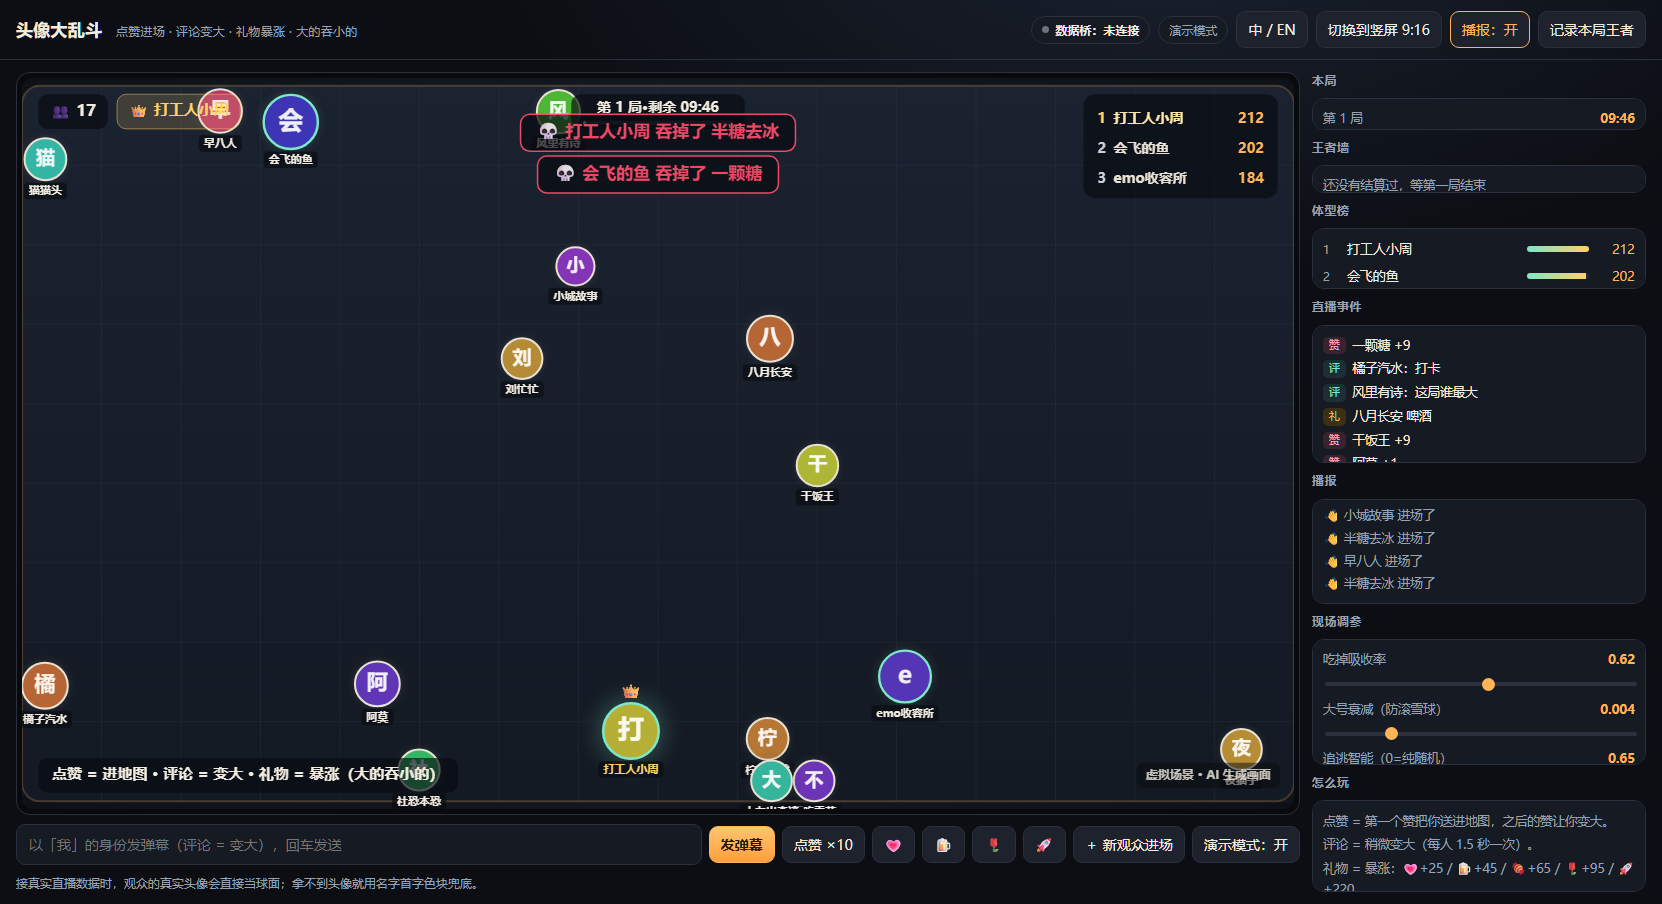
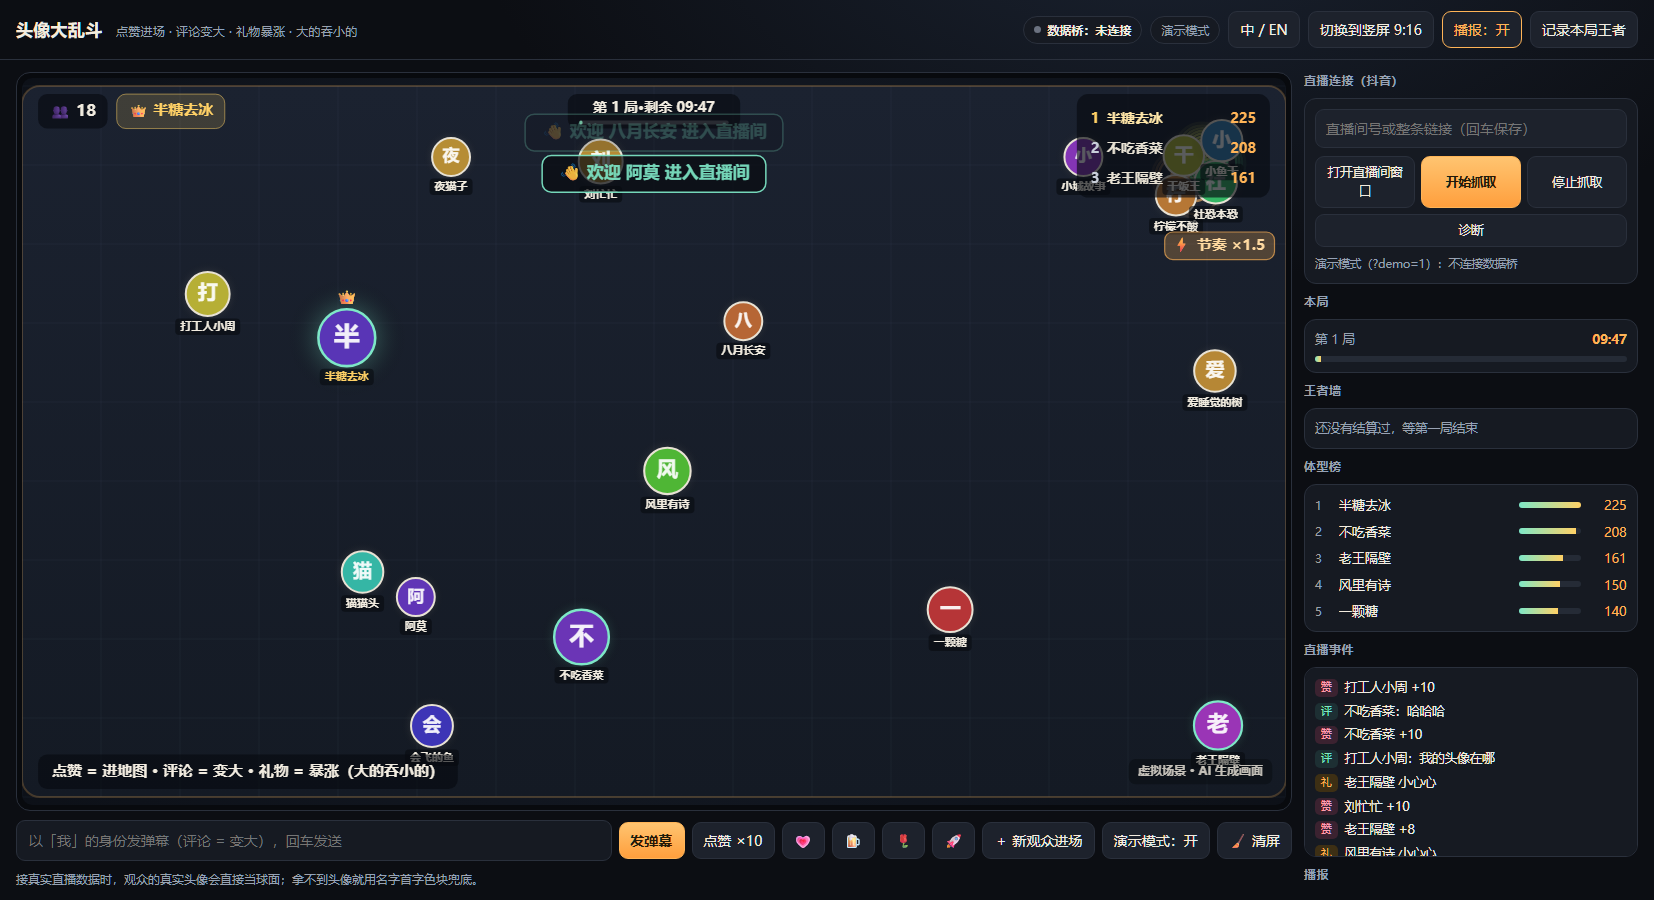
feat: 一键清屏 + 大号衰减一路压到 200（衰减下限可调）

diff --git a/index.html b/index.html
@@ -107,6 +107,7 @@
       <button data-gift="火箭">🚀</button>
       <button id="btnJoin" data-i18n="dock.join">＋ 新观众进场</button>
       <button id="btnDemo" data-i18n="btn.demoOn">演示模式：开</button>
+      <button id="btnClear" data-i18n="dock.clear">🧹 清屏</button>
     </div>
     <div class="hint" data-i18n="panel.hint"></div>
   </section>
@@ -441,6 +442,12 @@ $('btnJoin').addEventListener('click', () => {
   pushEvent({ type: 'join', name });
   render.toast(tr('toast.welcome', { name }), 'join', 3.5);
   if (speech.enabled) speech.welcome(name);
+});
+$('btnClear').addEventListener('click', () => {
+  const count = arena.clear();
+  render.toast(tr('toast.cleared', { n: count }), 'king', 3.5);
+  renderRank(arena.snapshot());
+  renderLog(arena.snapshot());
 });
 $('btnDemo').addEventListener('click', () => {
   settings.demo = !settings.demo;

diff --git a/README.md b/README.md
@@ -13,7 +13,7 @@
   <img src="https://img.shields.io/badge/node-%E2%89%A518-339933.svg" alt="node">
   <img src="https://img.shields.io/badge/python-%E2%89%A53.9-3776ab.svg" alt="python">
   <img src="https://img.shields.io/badge/platform-Windows-0078d4.svg" alt="windows">
-  <img src="https://img.shields.io/badge/%E6%B5%8B%E8%AF%95-41%20JS%20%2B%2024%20Python-7ee7c7.svg" alt="tests">
+  <img src="https://img.shields.io/badge/%E6%B5%8B%E8%AF%95-45%20JS%20%2B%2024%20Python-7ee7c7.svg" alt="tests">
 </p>
 
 ---
@@ -80,8 +80,9 @@ python -m http.server 8090
 | **吃** | 体型差 ≥15% 就能吞掉对方，吸收对方 62% 的质量 |
 | **同级** | 相碰弹开，不会互相伤害 |
 | **撞墙** | 法向弹开 + 切向滑行，角落会自动散开（不会堆在边角） |
-| **防滚雪球** | 大号每秒衰减 + 质量上限 + 越大越慢 → 王者会被追平 |
+| **防滚雪球** | 大号每秒衰减 + 质量上限 + 越大越慢 → 王者会被追平；衰减会**一路压到 200**（不会停在 300） |
 | **被吃了** | 随便再互动一次就复活（2.5 秒冷却），死亡只是节目效果 |
+| **清屏** | 底部「🧹 清屏」一键移除地图上所有头像（换场、画面太乱时用；之后新互动照常进场） |
 
 ### 现场调参（改完立即生效，自动保存）
 
@@ -91,6 +92,7 @@ python -m http.server 8090
 | 互动加速 | 0.9 | 0 = 关闭；0.9 = 最热闹时全场最多 ×1.9 |
 | 吃掉吸收率 | 0.62 | 越小越防滚雪球 |
 | 大号衰减 | 0.004 | 越大缩得越快，王者换人更快 |
+| 衰减下限 | 2.0 | ×100 = **200**。大号会一路压到这个体型（可调 100–250） |
 | 追逃智能 | 0.65 | 0 = 纯随机漂移；1 = 强烈追逃 |
 | 同时在线上限 | 60 | 地图里最多多少个头像 |
 | 一局时长 | 10 分钟 | 到点结算王者/称号 |
@@ -171,7 +173,7 @@ python -m http.server 8090
 ## 测试
 
 ```powershell
-node --test "arena-*.test.mjs"     # 41 个用例：规则/吞并/衰减/复活/局结算/称号/王者墙/设置/文案/渲染/贴墙
+node --test "arena-*.test.mjs"     # 45 个用例：规则/吞并/衰减/清屏/复活/局结算/称号/王者墙/设置/文案/渲染/贴墙
 python test_launch_windows.py      # 24 个用例：启动器/MIME/服务/内置数据桥/窗口尺寸/诊断
 ```
 

diff --git a/docs/方案-头像大乱斗.md b/docs/方案-头像大乱斗.md
@@ -79,7 +79,7 @@
 - **数据桥**：先用打印项目启动（`../LiveApp/start-bridge.bat`），本项目只连不修改；没桥时自动进演示模式
 - 测试：`node --test "arena-*.test.mjs"` → **34 passed**；`python test_launch_windows.py` → **8 passed**
 
-**已实现**：点赞/评论/礼物/进场/关注 五类事件、追逃 AI、同级弹开、大吃小、衰减与上限、复活、**每局结算（王者/巨物/首杀/连吃王/复仇成功）**、**王者墙（写 localStorage）**、欢迎语 TTS、喊话横幅、体型榜、现场调参（含**基础移动速度**与**互动加速**：人越多跑得越快，画面显示「⚡ 节奏 ×1.4」）、竖屏布局。
+**已实现**：点赞/评论/礼物/进场/关注 五类事件、追逃 AI、同级弹开、大吃小、衰减与上限（**衰减下限可调，默认一路压到 200**）、**一键清屏**、复活、**每局结算（王者/巨物/首杀/连吃王/复仇成功）**、**王者墙（写 localStorage）**、欢迎语 TTS、喊话横幅、体型榜、现场调参（含**基础移动速度**与**互动加速**：人越多跑得越快，画面显示「⚡ 节奏 ×1.4」）、竖屏布局。
 
 ![横屏](screenshots/arena-landscape.png)
 

diff --git a/CHANGELOG.md b/CHANGELOG.md
@@ -7,6 +7,8 @@
 - 点赞进场、评论变大、礼物暴涨，大的吞掉小的
 - 同级相碰弹开；体型差 ≥15% 才能吞并，吸收 62% 质量
 - 防滚雪球：大号每秒衰减 + 质量上限 + 越大越慢
+- **衰减会一路压到 200**（旧版本掉到 300 就停止衰减，大号永远显得太大）；下限可在现场调参里改（默认 ×2=200，范围 100–250）
+- **一键清屏**：底部「🧹 清屏」移除地图上所有头像（换场/画面太乱时用，之后新互动照常进场）
 - 被吃掉后任意互动即可复活（2.5 秒冷却）
 - 追逃 AI（0 = 纯随机漂移，1 = 强烈追逃）
 - **互动越多节奏越快**：最近 6 秒互动量 → 节奏倍率（默认最多 ×1.9），平滑过渡、停手回落
